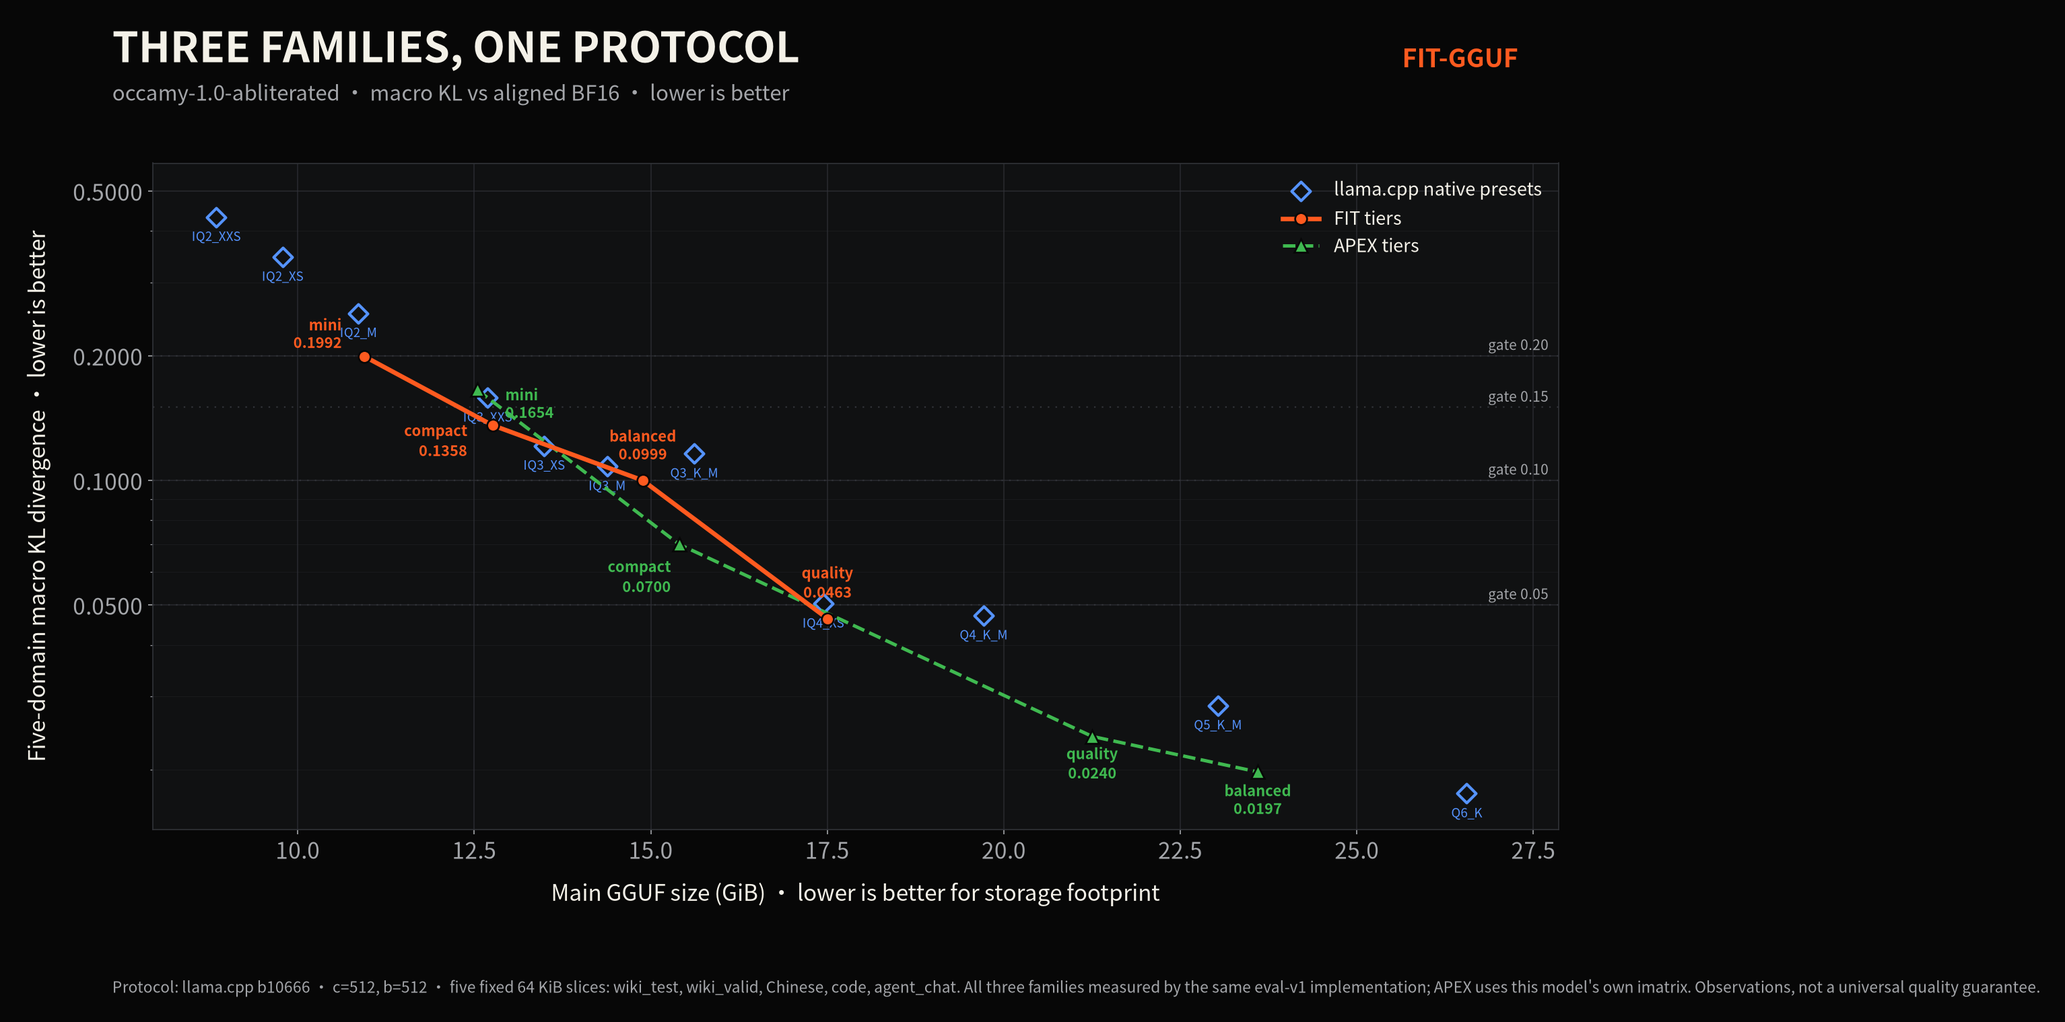
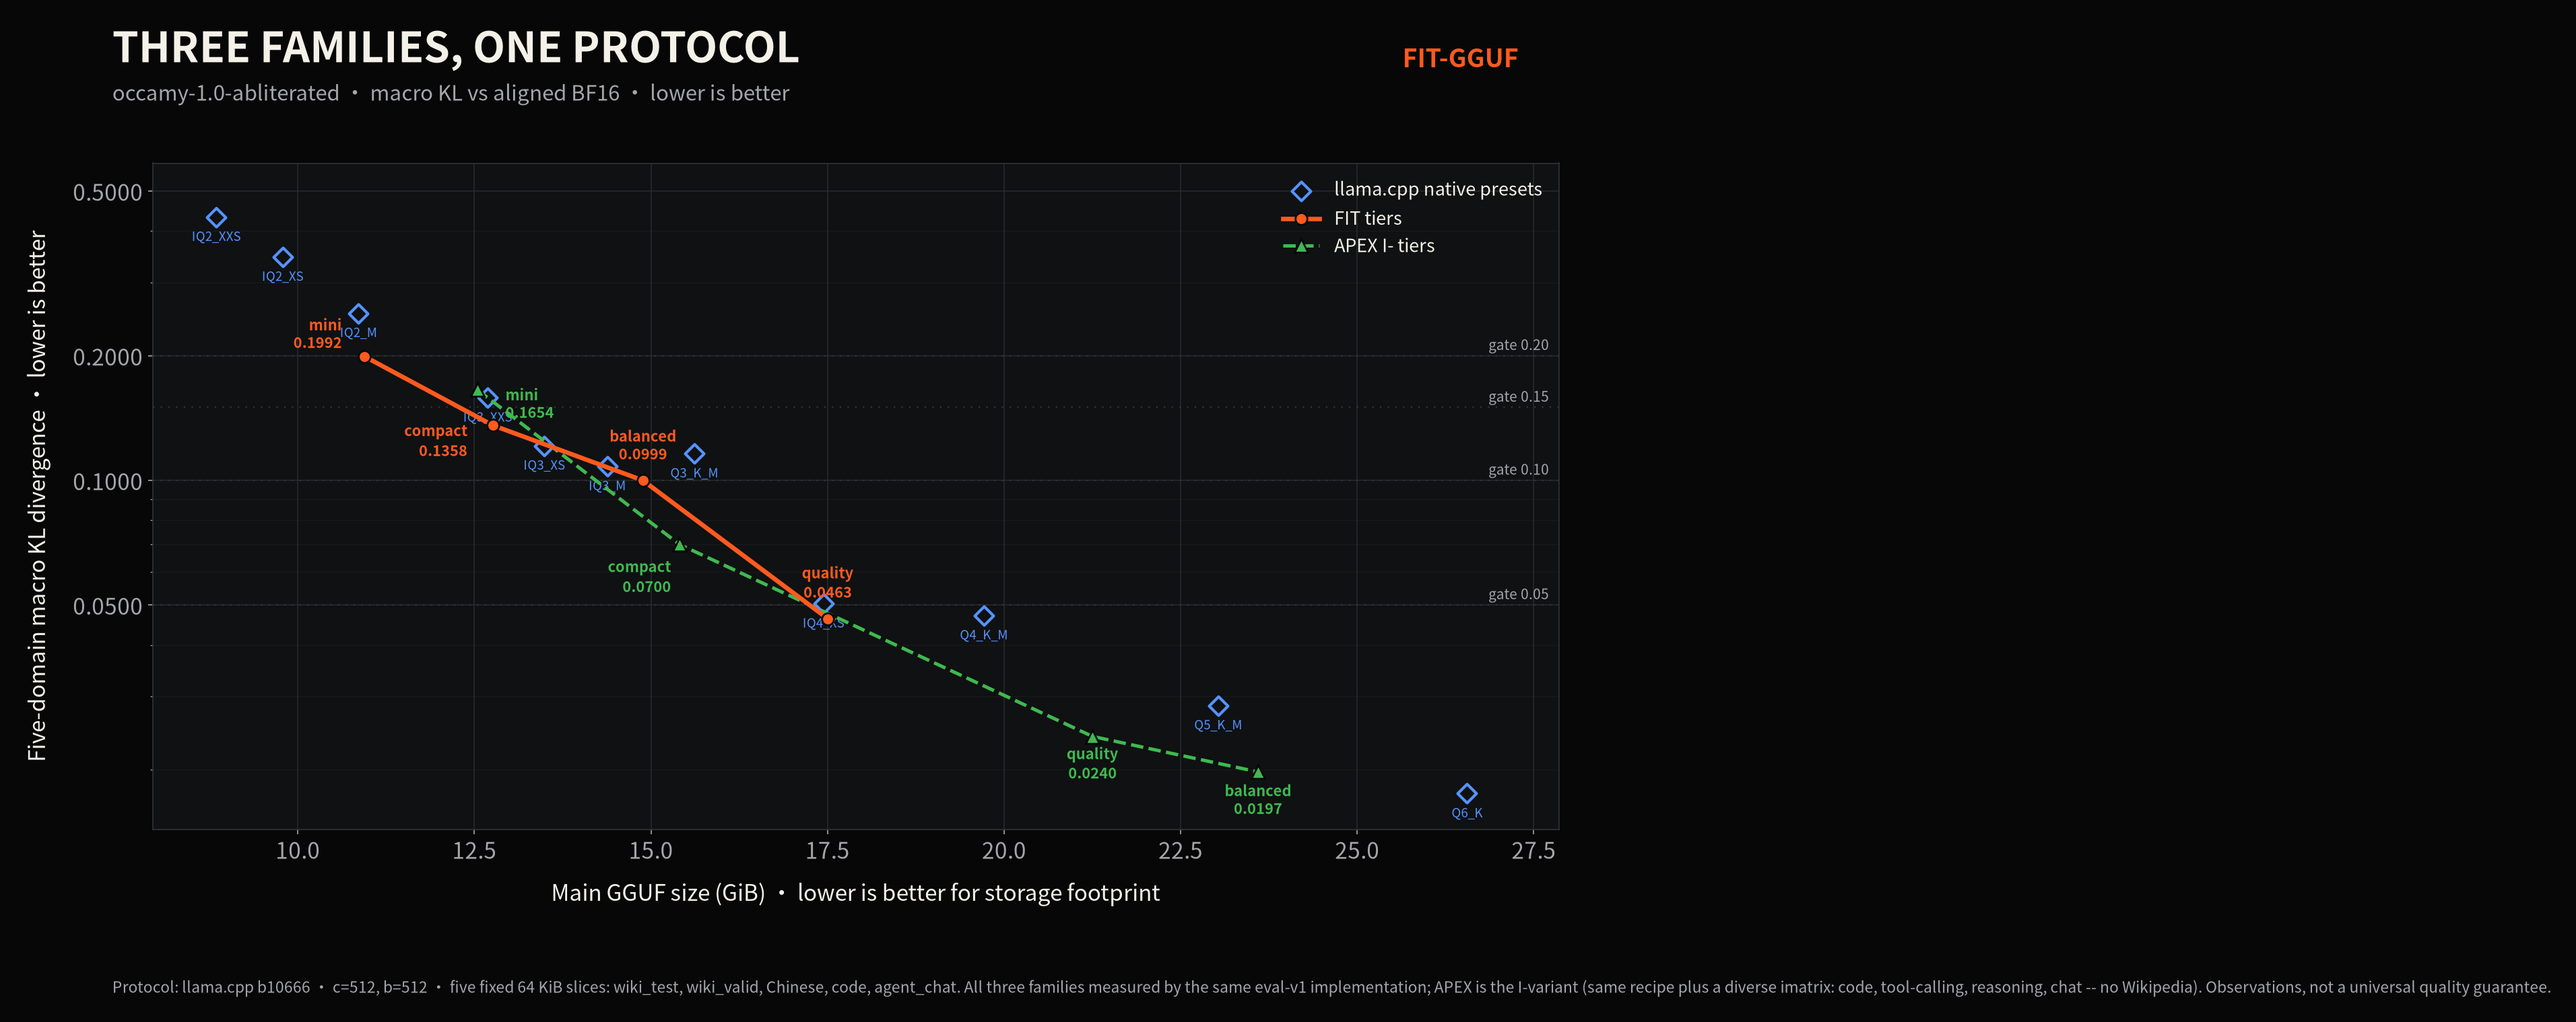
fix(apex): these ARE the I-variants — name them so, and drop the wrong caveat
The previous commit labelled this run "APEX (non-I)" and claimed in both the
message and the chart footer that it used "this model's own imatrix, not APEX's
diverse I- corpus". That was wrong on the naming and wrong on the substance.

APEX's I-variants are the SAME recipe plus a diverse imatrix. Verified rather
than assumed: `laguna_s21_{quality,balanced,compact,mini}.txt` and their
`laguna_s21_i_*` counterparts are byte-identical, and quantize.sh documents the
i-* profiles as "Same + imatrix". qwen36_35b has no `_i_` config at all, so its
I-variant is the same qwen36_35b recipe with a diverse imatrix.

This run passes --imatrix, and that imatrix's own `quantize.imatrix.dataset` KV
is `/run/media/s117/OS/FIT-GGUF/test-Models/imatrix-calibration/APEX-imatrix-Small.txt`
— the APEX-style corpus (code, tool-calling, reasoning, chat; Wikipedia absent),
built for this project by following APEX. So the artifacts were the I-variant all
along; only their names and my description were wrong.

  - artifacts renamed `...-APEX-<TIER>-<base>.gguf` -> `...-APEX-I-<TIER>-<base>.gguf`
  - apex-report.json gains `family: APEX-I` and the verification note
  - run_apex_tiers.py names the family APEX-I whenever --imatrix is passed
  - the chart legend and footer now say I-variant and why

No re-quantization: the bytes never changed, only what we called them.

diff --git a/scripts/render_three_way_chart.py b/scripts/render_three_way_chart.py
@@ -189,7 +189,7 @@ def render(native, fit, apex, model: str, out_dir: Path, lang: str, gates: list[
         [x["gib"] for x in apex], [x["kl"] for x in apex],
         color=GREEN, linewidth=2.4, linestyle="--", marker="^", markersize=10,
         markeredgecolor=BG, markeredgewidth=1.3,
-        label="APEX 档位" if zh else "APEX tiers", zorder=4,
+        label="APEX I- 档位" if zh else "APEX I- tiers", zorder=4,
     )
     for item in apex:
         dx, dy, ha = APEX_LABEL_OFFSETS.get(item["name"], (0, -30, "center"))
@@ -214,10 +214,10 @@ def render(native, fit, apex, model: str, out_dir: Path, lang: str, gates: list[
     footer(
         fig,
         "协议：llama.cpp b10666 · c=512，b=512 · 五个固定 64 KiB 切片：wiki_test、wiki_valid、中文、代码、agent_chat。"
-        "三族均由同一 eval-v1 实现测量，APEX 使用本模型自身的 imatrix。仅为本协议观测，不代表通用质量保证。"
+        "三族均由同一 eval-v1 实现测量；APEX 为 I- 变体（同一配方 + 多样 imatrix：代码/工具调用/推理/对话，无 Wikipedia）。仅为本协议观测，不代表通用质量保证。"
         if zh
         else "Protocol: llama.cpp b10666 · c=512, b=512 · five fixed 64 KiB slices: wiki_test, wiki_valid, Chinese, code, agent_chat. "
-        "All three families measured by the same eval-v1 implementation; APEX uses this model's own imatrix. "
+        "All three families measured by the same eval-v1 implementation; APEX is the I-variant (same recipe plus a diverse imatrix: code, tool-calling, reasoning, chat -- no Wikipedia). "
         "Observations, not a universal quality guarantee.",
     )
 

diff --git a/scripts/run_apex_tiers.py b/scripts/run_apex_tiers.py
@@ -146,7 +146,12 @@ def main() -> int:
     for r in plan_rows:
         tier = r["tier"]
         tmp = work / f"APEX-{tier}.gguf"
-        name = f"{model_id}-APEX-{tier.upper()}-{r['base']}.gguf"
+        # APEX's i-* profiles are the same recipe plus a diverse imatrix -- verified
+        # by diffing laguna_s21_* against laguna_s21_i_*: byte-identical. So an
+        # imatrix argument is exactly what makes this an I-variant, and the name
+        # should say so.
+        family = "APEX-I" if args.imatrix else "APEX"
+        name = f"{model_id}-{family}-{tier.upper()}-{r['base']}.gguf"
         target = args.dest / name
         print(f"[apex] {tier}: quantize with {r['recipe'].name} (base {r['base']})", flush=True)
 
@@ -154,7 +159,7 @@ def main() -> int:
             size = target.stat().st_size
             print(f"[apex] {tier}: reusing {name} ({size / GIB:.2f} GiB)", flush=True)
             entry = {
-                "tier": tier, "family": "APEX", "artifact": name,
+                "tier": tier, "family": family, "artifact": name,
                 "size_bytes": size, "base_type": r["base"],
                 "recipe": r["recipe"].name, "recipe_sha256": sha256_file(r["recipe"]),
                 "reused": True,
